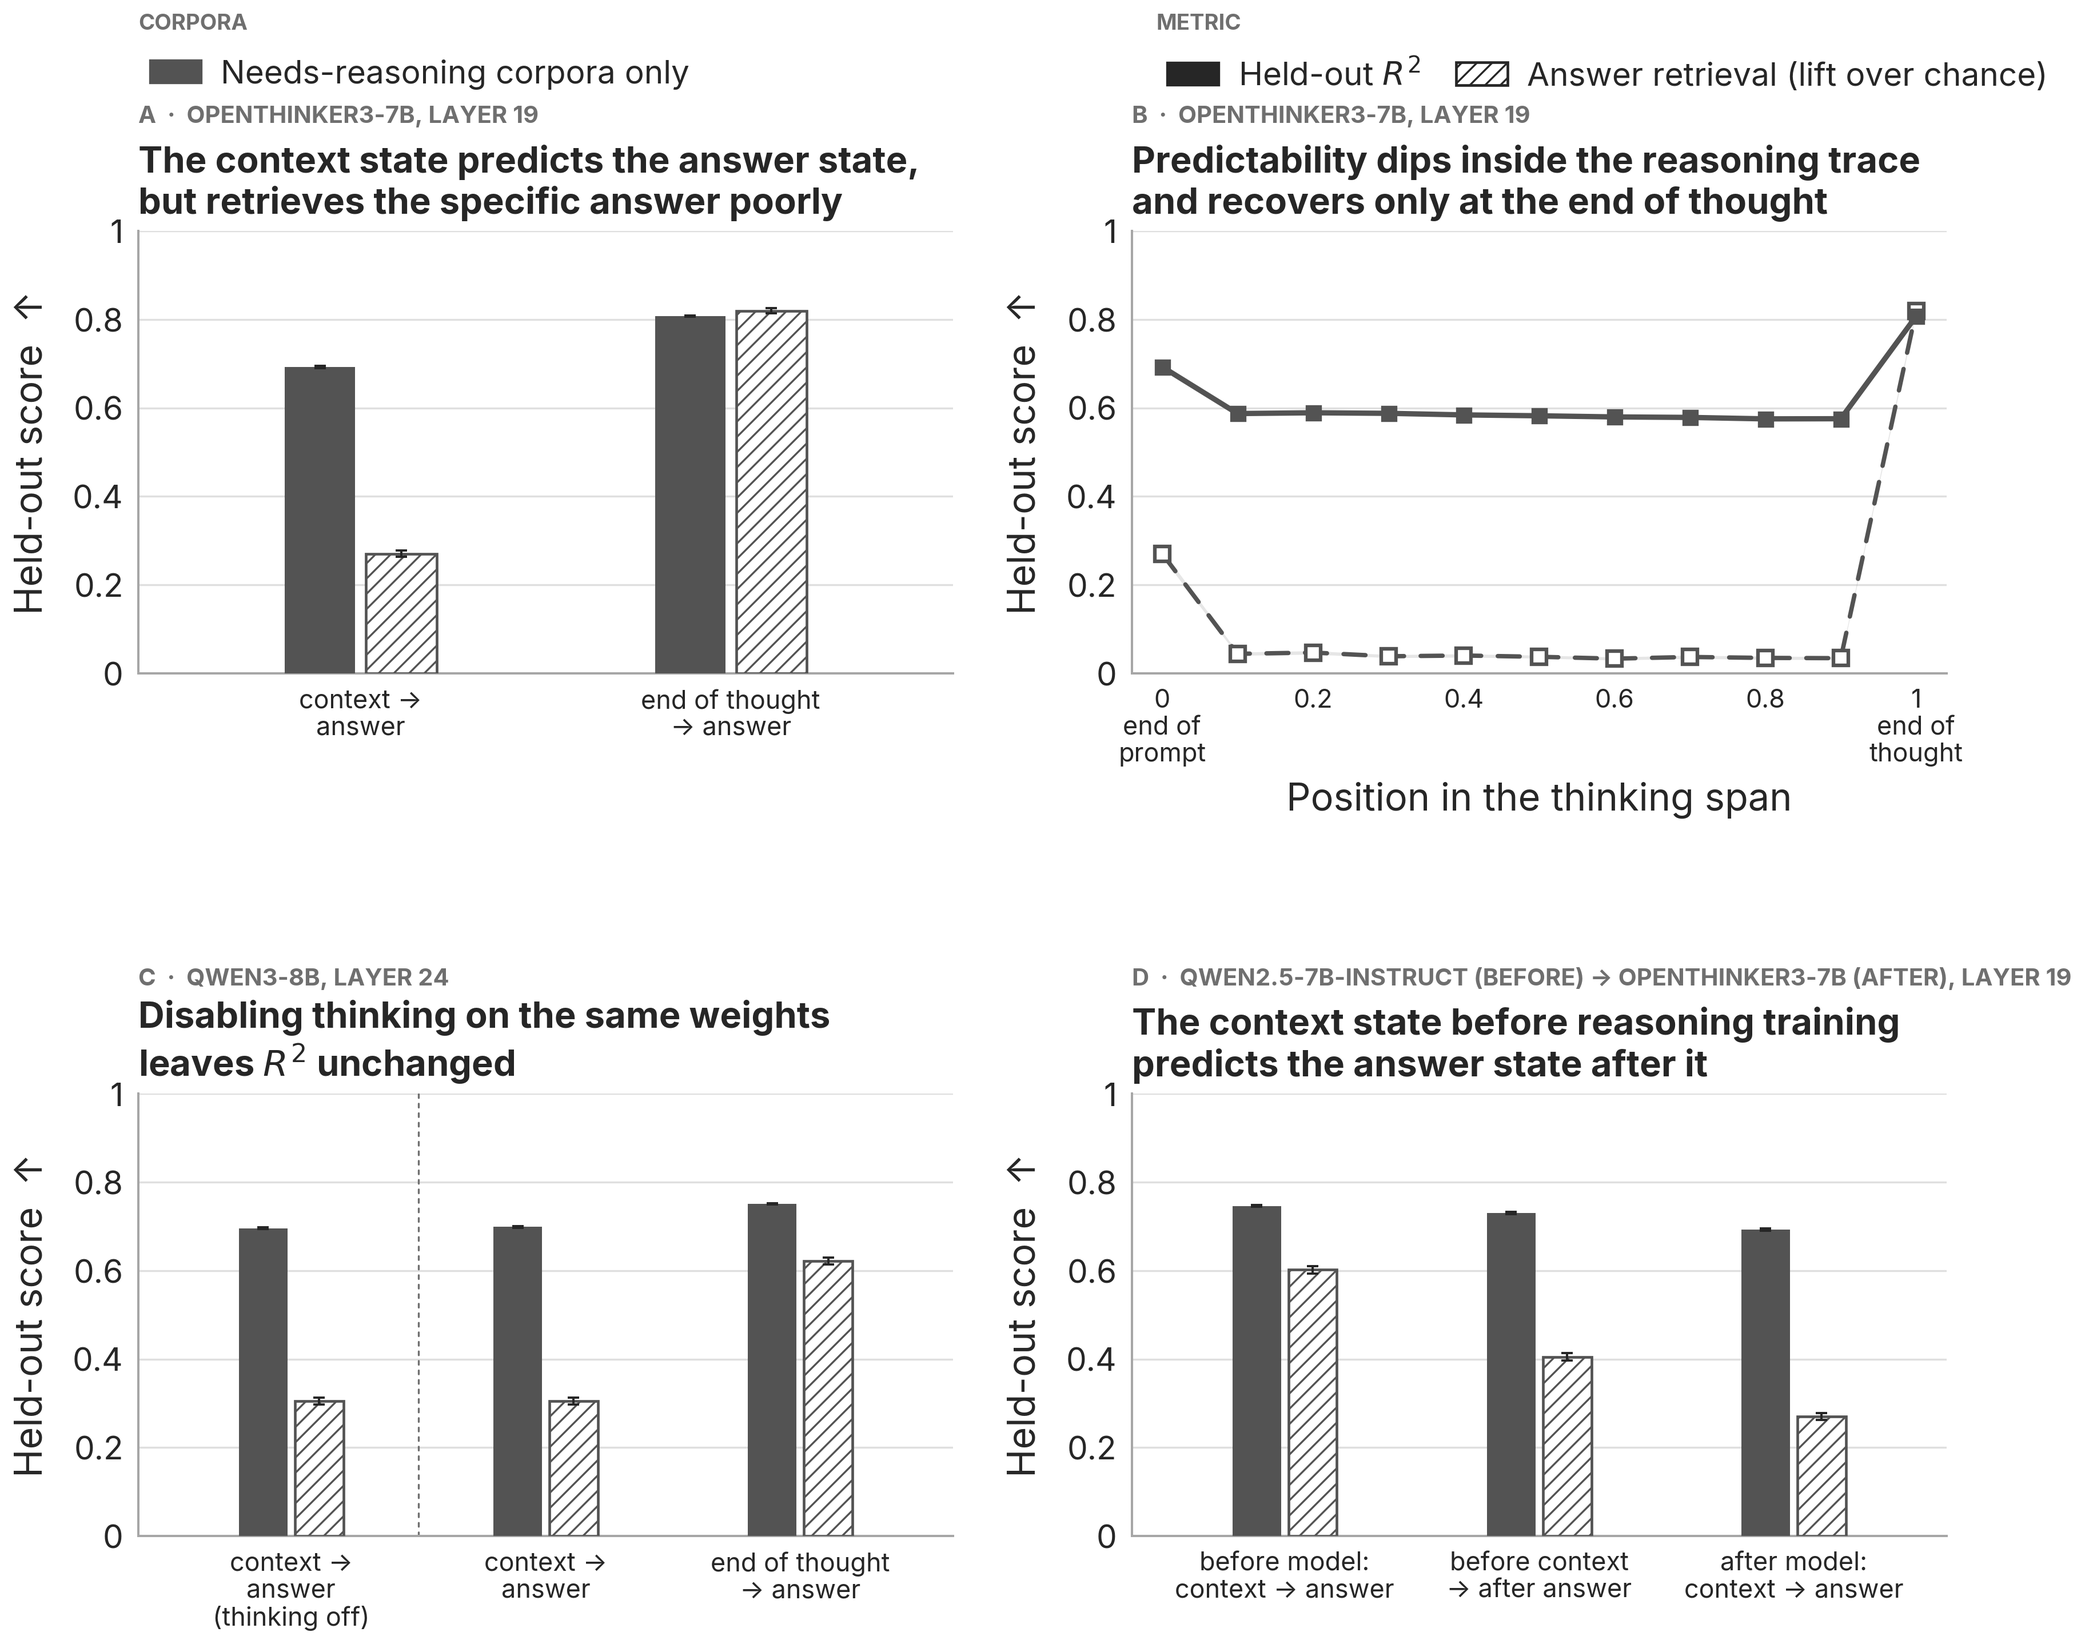
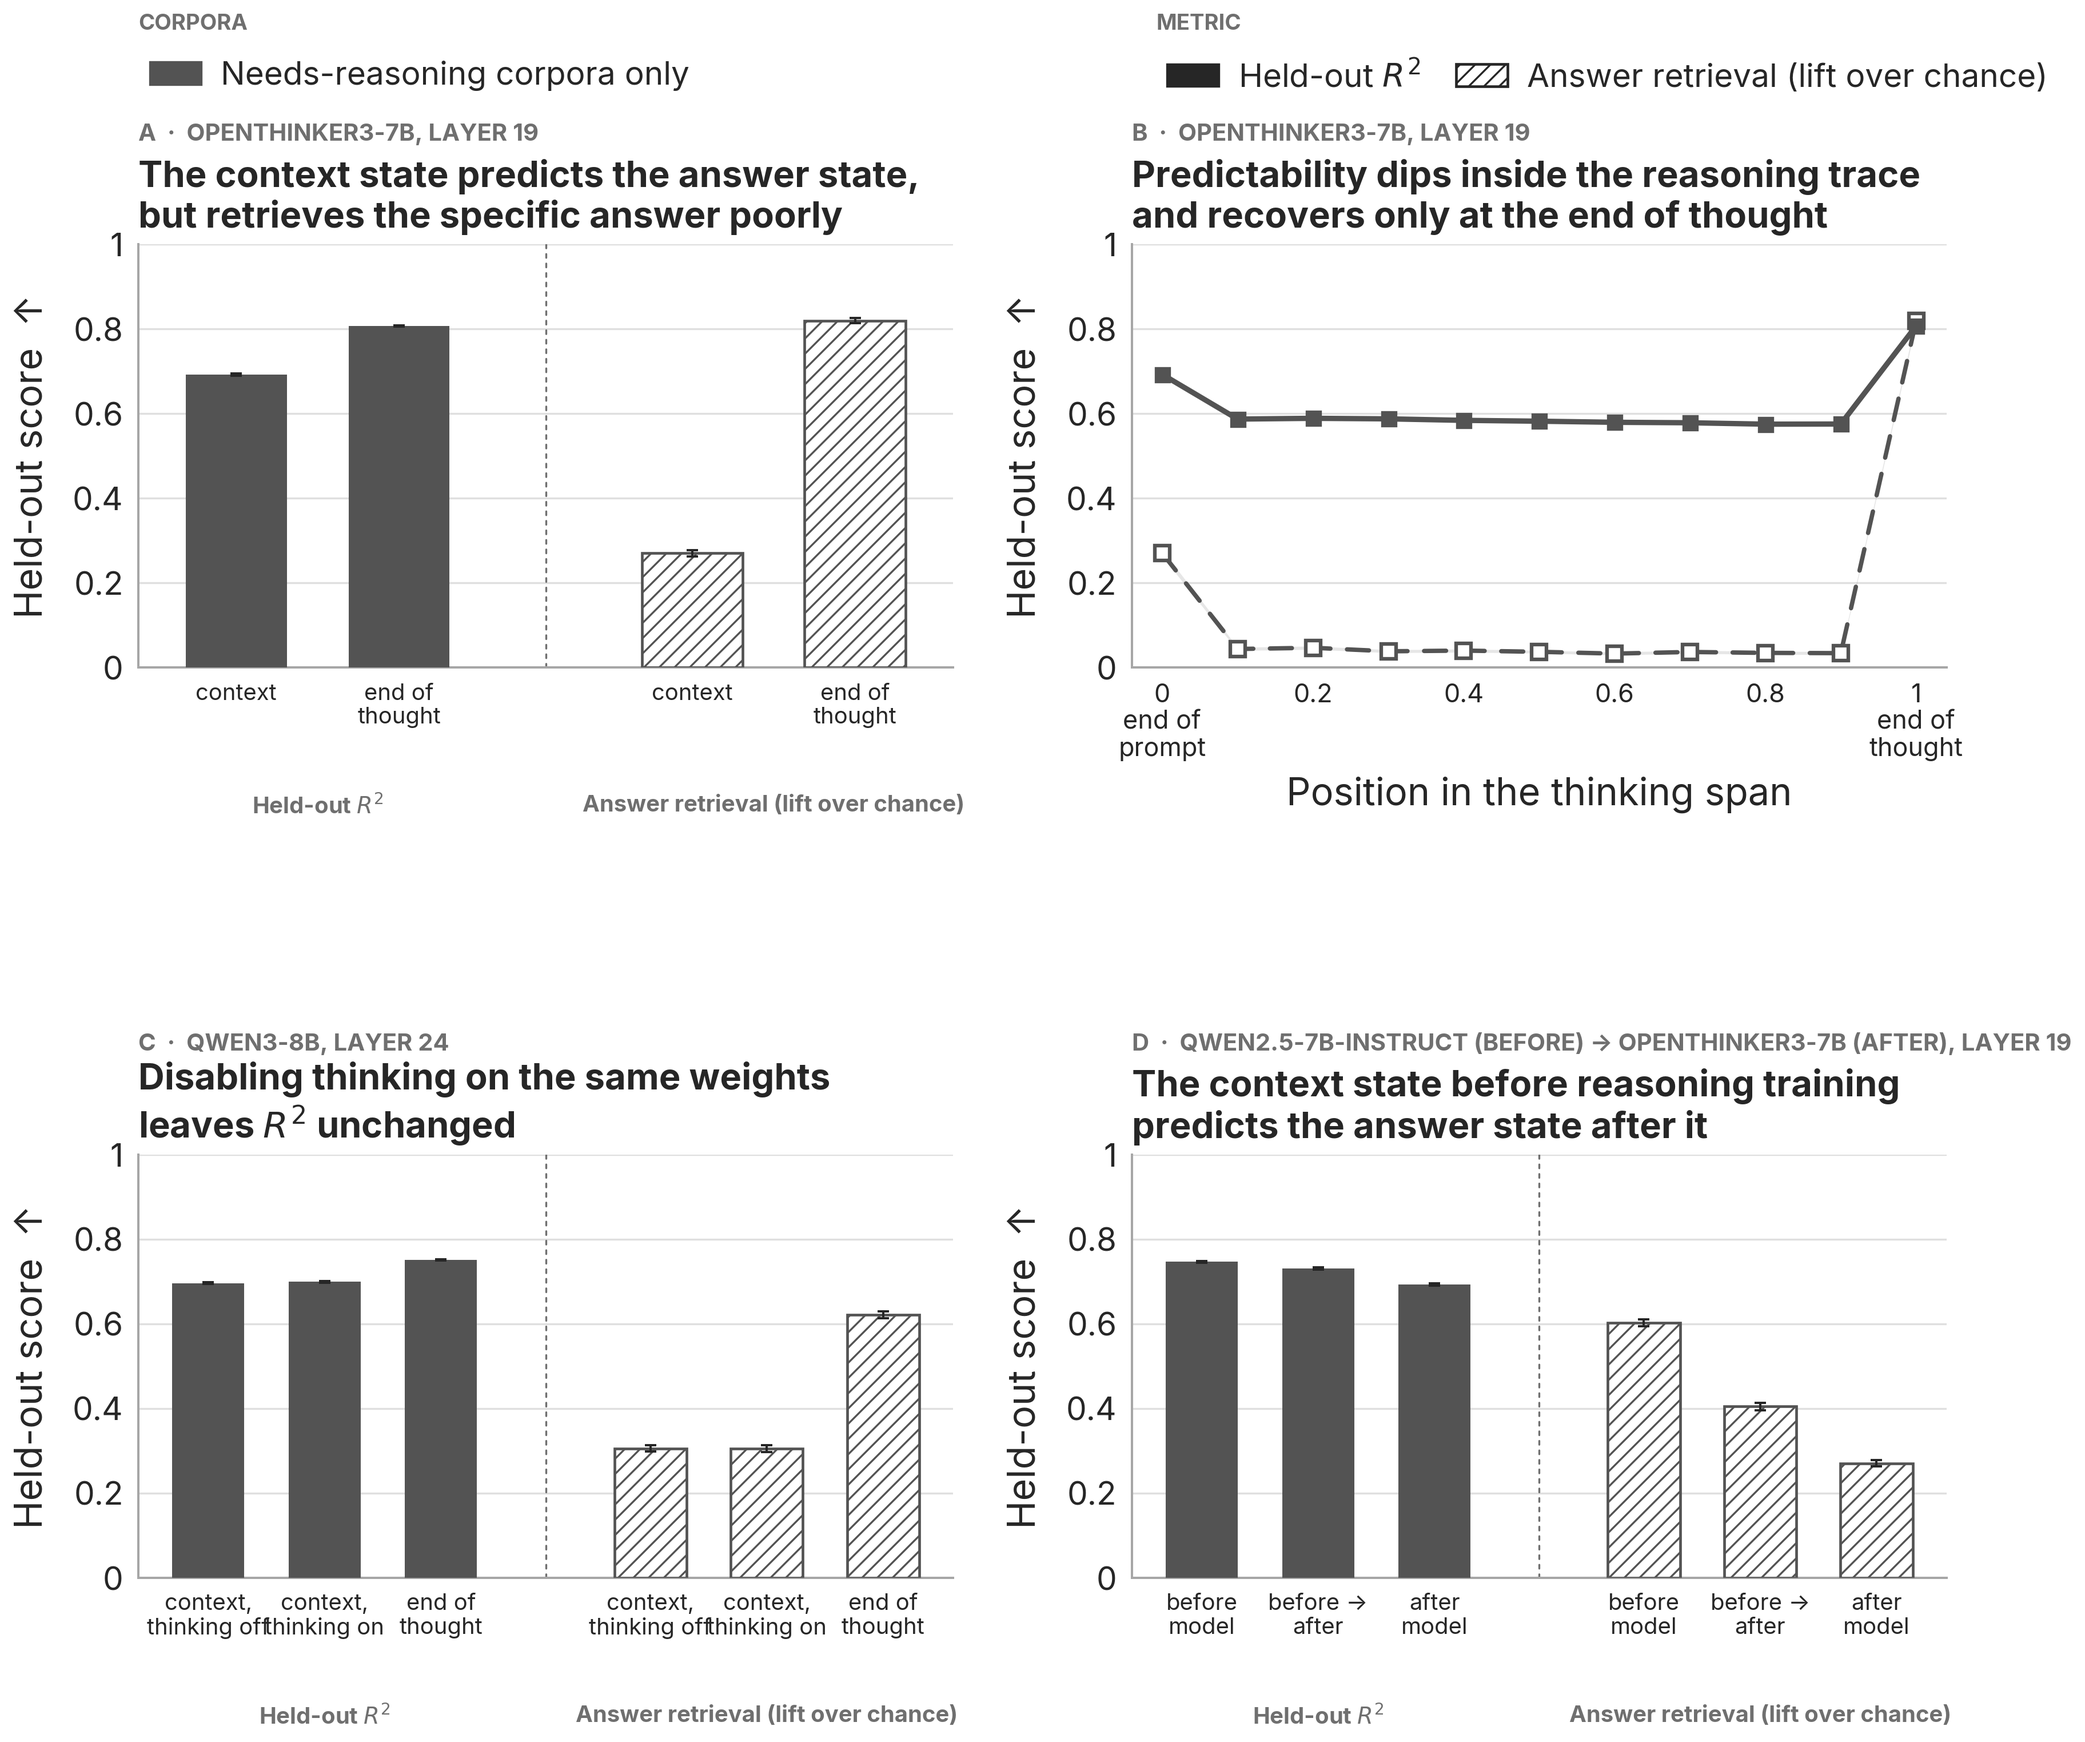
Main CoT figure: bars grouped by metric (R^2 group, retrieval group), shorter map labels
Generated with [Claude Code](https://claude.ai/code)
via [Happy](https://happy.engineering)

diff --git a/scripts/section45_cot_figure.py b/scripts/section45_cot_figure.py
@@ -90,18 +90,18 @@ STRATA_CORPORA_NOTE = {"does": "MATH, multi-step GSM8K, ContextHub levels 3\u201
 
 # (cell, x-axis label) per categorical panel.
 PANEL_A_MAPS = [
-    ("p7_A", "context →\nanswer"),
-    ("p7_D", "end of thought\n→ answer"),
+    ("p7_A", "context"),
+    ("p7_D", "end of\nthought"),
 ]
 PANEL_C_MAPS = [
-    ("p7_Aoff", "context →\nanswer\n(thinking off)"),
-    ("p7_A", "context →\nanswer"),
-    ("p7_D", "end of thought\n→ answer"),
+    ("p7_Aoff", "context,\nthinking off"),
+    ("p7_A", "context,\nthinking on"),
+    ("p7_D", "end of\nthought"),
 ]
 PANEL_D_MAPS = [
-    ("p8_G", "before model:\ncontext → answer"),
-    ("p8_E", "before context\n→ after answer"),
-    ("p8_F", "after model:\ncontext → answer"),
+    ("p8_G", "before\nmodel"),
+    ("p8_E", "before →\nafter"),
+    ("p8_F", "after\nmodel"),
 ]
 
 
@@ -285,12 +285,13 @@ def _bar_with_ci(
     style: StratumStyle,
     *,
     retrieval: bool,
+    width: float = BAR_WIDTH,
 ) -> None:
     if retrieval:
         ax.bar(
             x,
             value,
-            width=BAR_WIDTH,
+            width=width,
             facecolor=PAPER,
             edgecolor=style.color,
             hatch=RETRIEVAL_HATCH,
@@ -298,7 +299,7 @@ def _bar_with_ci(
             zorder=3,
         )
     else:
-        ax.bar(x, value, width=BAR_WIDTH, color=style.color, linewidth=0, zorder=3)
+        ax.bar(x, value, width=width, color=style.color, linewidth=0, zorder=3)
     lo, hi = ci
     ax.errorbar(
         x,
@@ -313,30 +314,34 @@ def _bar_with_ci(
     )
 
 
-def _draw_bars(ax: plt.Axes, x: float, metrics: dict[str, Any], style: StratumStyle, subset: str) -> None:
-    dx_r2, dx_ret = BAR_OFFSETS[subset]
-    _bar_with_ci(ax, x + dx_r2, metrics["r2"], metrics["r2_ci"], style, retrieval=False)
-    if metrics["retrieval_lift"] is not None:
-        _bar_with_ci(
-            ax,
-            x + dx_ret,
-            metrics["retrieval_lift"],
-            metrics["retrieval_lift_ci"],
-            style,
-            retrieval=True,
-        )
+GROUP_GAP = 0.8  # x gap between the R^2 group and the retrieval group
 
 
 def _categorical_panel(ax: plt.Axes, maps: list[dict[str, Any]], *, separator_after: int | None = None) -> None:
+    """Bars grouped by metric: all held-out R^2 bars on the left, all retrieval-lift bars on the right."""
     style_score_axis(ax, y_min=0.0, y_max=1.0, y_step=0.2)
-    for i, entry in enumerate(maps):
-        for subset in PLOT_STRATA:
-            _draw_bars(ax, i, entry[subset], STRATA[subset], subset)
-    ax.set_xlim(-0.6, len(maps) - 0.4)
-    ax.set_xticks(range(len(maps)))
-    ax.set_xticklabels([entry["label"] for entry in maps], fontsize=13.5, linespacing=1.15)
-    if separator_after is not None:
-        ax.axvline(separator_after + 0.5, color=MUTED, lw=1.0, ls=(0, (2, 3)), zorder=1)
+    m = len(maps)
+    width = 0.62
+    ticks: list[float] = []
+    labels: list[str] = []
+    for subset in PLOT_STRATA:
+        style = STRATA[subset]
+        for i, entry in enumerate(maps):
+            metrics = entry[subset]
+            x_r2 = float(i)
+            _bar_with_ci(ax, x_r2, metrics["r2"], metrics["r2_ci"], style, retrieval=False, width=width)
+            ticks.append(x_r2); labels.append(entry["label"])
+            if metrics["retrieval_lift"] is not None:
+                x_ret = m + GROUP_GAP + i
+                _bar_with_ci(ax, x_ret, metrics["retrieval_lift"], metrics["retrieval_lift_ci"], style, retrieval=True, width=width)
+                ticks.append(x_ret); labels.append(entry["label"])
+    x_max = m + GROUP_GAP + m - 1
+    ax.set_xlim(-0.6, x_max + 0.6)
+    ax.set_xticks(ticks)
+    ax.set_xticklabels(labels, fontsize=12, linespacing=1.15)
+    ax.axvline(m - 0.5 + GROUP_GAP / 2, color=MUTED, lw=1.0, ls=(0, (2, 3)), zorder=1)
+    for center, text in (((m - 1) / 2, "Held-out $R^2$"), (m + GROUP_GAP + (m - 1) / 2, "Answer retrieval (lift over chance)")):
+        ax.text(center, -0.30, text, transform=ax.get_xaxis_transform(), ha="center", va="top", fontsize=12, fontweight=700, color=MUTED)
 
 
 def _trajectory_panel(ax: plt.Axes, series: dict[str, list[dict[str, Any]]]) -> None:
@@ -409,16 +414,16 @@ def _legend_handles() -> tuple[list[Patch], list[Patch]]:
 
 def make_figure(panels: dict[str, Any]) -> plt.Figure:
     set_c2a_style()
-    fig = plt.figure(figsize=(14.4, 12.6), constrained_layout=False)
+    fig = plt.figure(figsize=(14.4, 13.4), constrained_layout=False)
     grid = fig.add_gridspec(
         2,
         2,
         left=0.07,
         right=0.985,
         top=0.845,
-        bottom=0.09,
+        bottom=0.12,
         wspace=0.22,
-        hspace=0.95,
+        hspace=1.15,
     )
     ax_a = fig.add_subplot(grid[0, 0])
     ax_b = fig.add_subplot(grid[0, 1])
